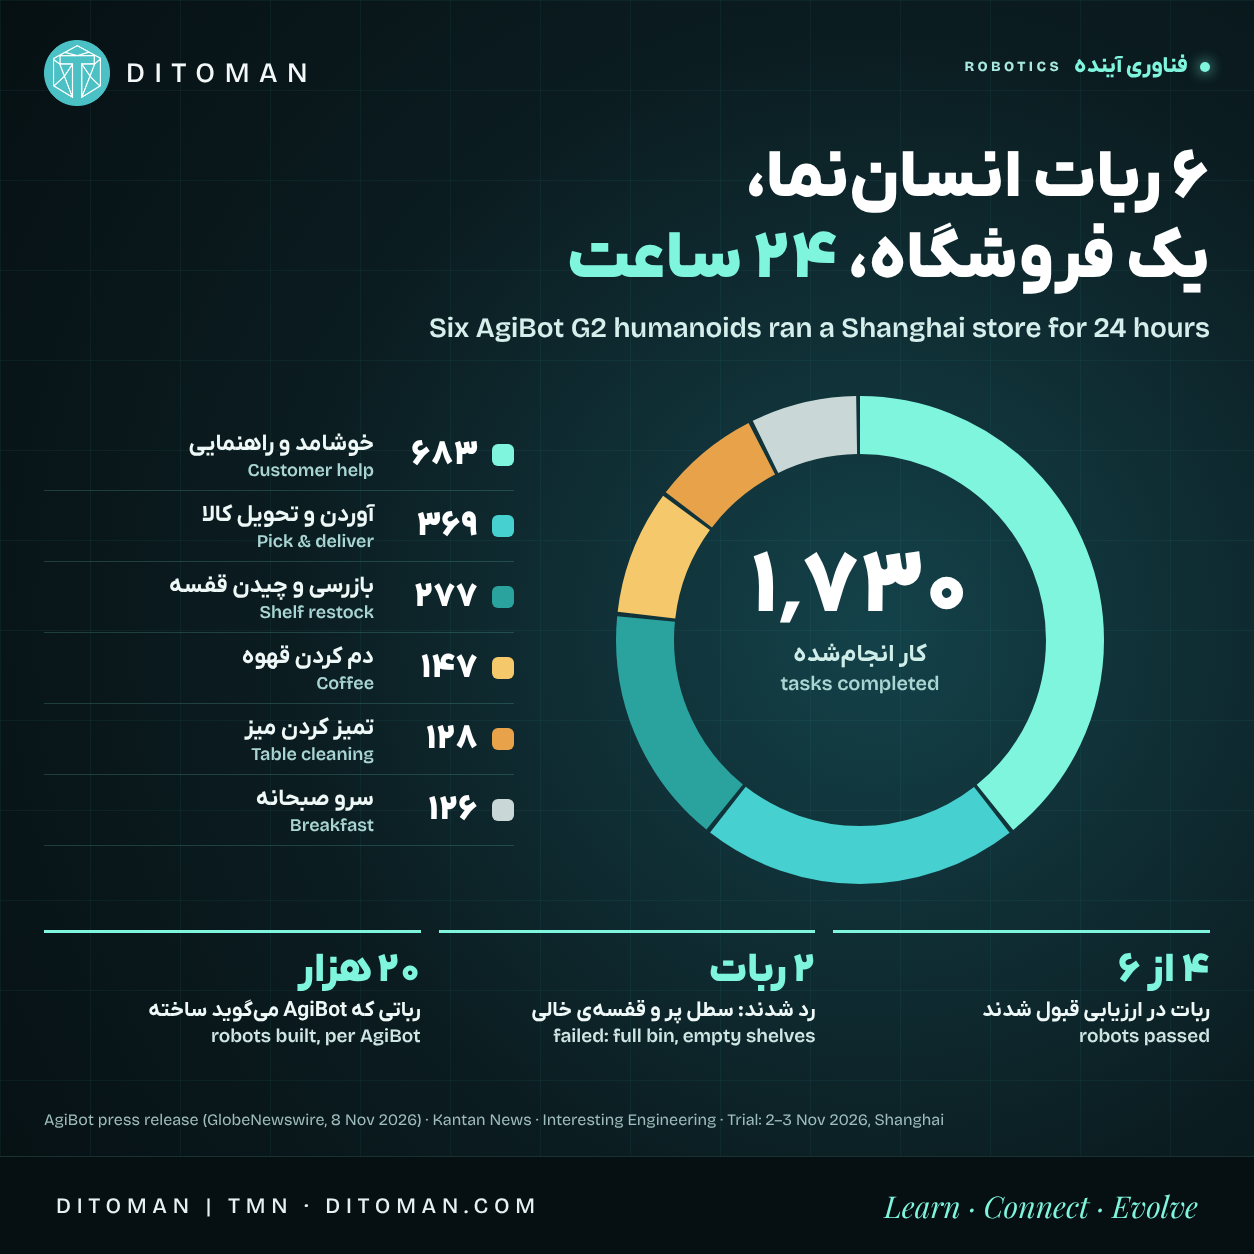
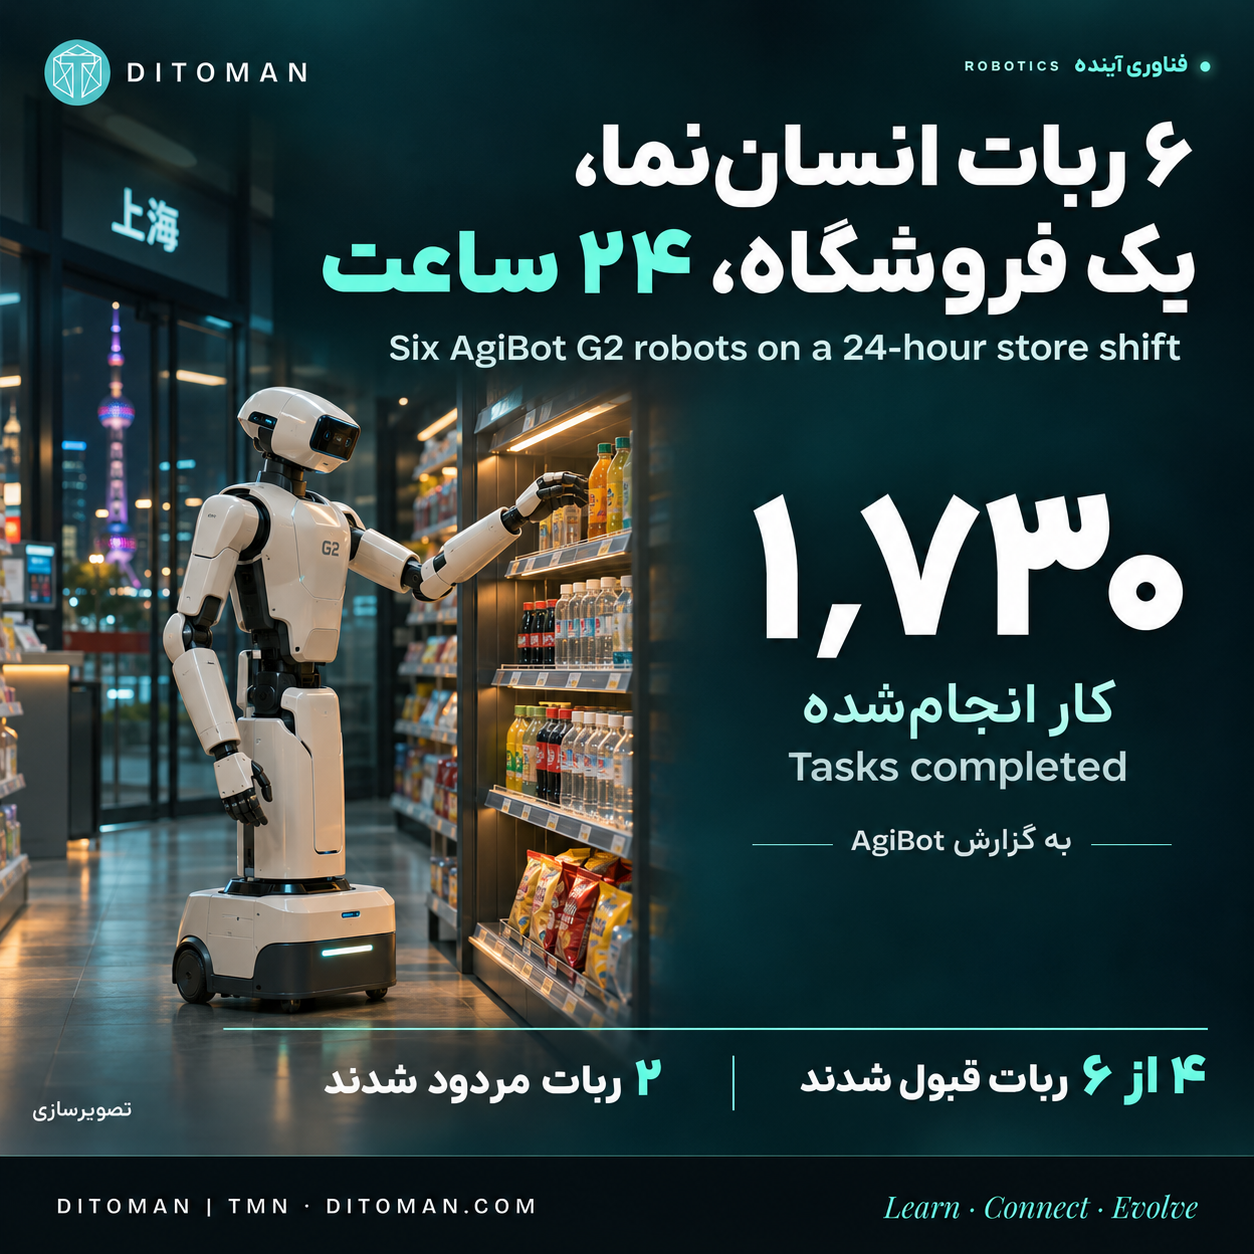
Telegram: post AgiBot 24-hour store story with supplied cover
Claude-Session: https://claude.ai/code/session_012uZ8KiEEJt1CcpRZeg7KSX

diff --git a/telegram/2026-11-09-02-agibot-store.md b/telegram/2026-11-09-02-agibot-store.md
@@ -43,7 +43,10 @@ image: social/agibot-store/post.png
 
 💬 اگر فروشندهی سوپرمارکت محلهتان یک ربات باشد، خریدتان را از آنجا ادامه میدهید؟
 
+🔗 خبر اصلی:
+https://interestingengineering.com/ai-robotics/six-agibot-humanoid-robots-complete
+
 منابع: اطلاعیهی AgiBot (GlobeNewswire، ۸ نوامبر ۲۰۲۶)، Interesting Engineering، Kantan News، ویکیپدیا
-تصویر: اینفوگرافیک دیتومان
+تصویر: تصویرسازی
 
 #ربات #هوش_مصنوعی #فناوری_آینده #چین #دیتومان
